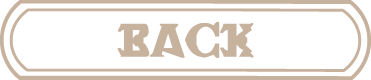
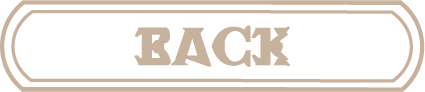
Added new font and images, resized some images

diff --git a/game_menu.py b/game_menu.py
@@ -15,7 +15,7 @@ class Game:
         self.playing = False
         self.playing2 = False # This is for hint buttons and also to have to states of playing
         self.START_KEY = False
-        self.DISPLAY_W, self.DISPLAY_H = 800, 500
+        self.DISPLAY_W, self.DISPLAY_H = 1200, 750
         self.mid_w, self.mid_h = self.DISPLAY_W/2, self.DISPLAY_H/2
         self.canvas = pygame.Surface((self.DISPLAY_W, self.DISPLAY_H))
         self.window = pygame.display.set_mode((self.DISPLAY_W, self.DISPLAY_H))
@@ -31,7 +31,7 @@ class Game:
 
         # game background
         self.bg_img_loc = 'assets/sent_images'
-        self.bg_img = pygame.image.load(f'{self.bg_img_loc}/main_game_bg.png').convert_alpha()
+        self.bg_img = pygame.image.load(f'{self.bg_img_loc}/bg3.png').convert_alpha()
         self.image_rect = self.bg_img.get_rect()
         self.image_rect.topleft = (0, 0)
 

diff --git a/menu.py b/menu.py
@@ -41,11 +41,18 @@ class MainMenu(Menu):
         self.run_display = True
         while self.run_display:
             self.bg_loader(self.bg_img, 1)
-            self.game.draw_text('ELEMENTALS', 90, self.mid_w, 100, self.game.font_war, (38, 19, 0))
+            self.draw_text('ELEMENTALS', 150, self.mid_w, 100, self.game.font_war, (38, 19, 0))
 
             self.game.check_events()
             self.menu_button.import_menu_button()
             self.blit_canvas()
+    
+    def draw_text(self, text, size, x, y, font_name=pygame.font.get_default_font(), color=(255, 255, 255)):
+        font = pygame.font.Font(font_name, size)
+        text_surface = font.render(text, True, color)
+        text_rect = text_surface.get_rect()
+        text_rect.center = (x, y)
+        self.game.canvas.blit(text_surface, text_rect)
 
 class MaxPointsMenu(Menu):
     def __init__(self, game):
